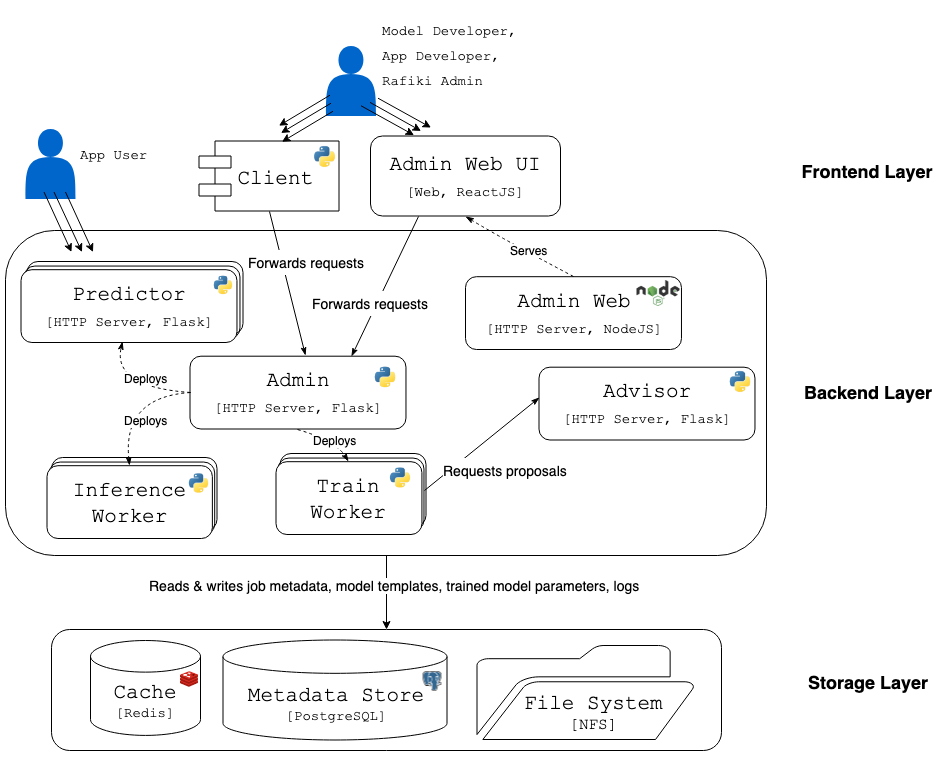
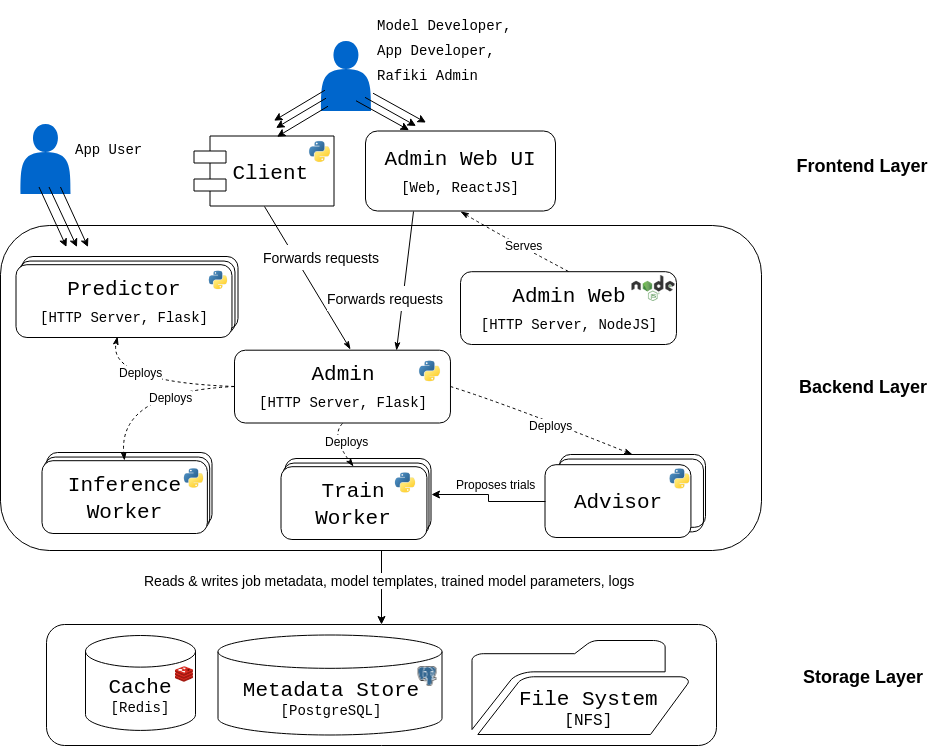
Update docs on architecture

diff --git a/docs/src/dev/architecture.rst b/docs/src/dev/architecture.rst
@@ -3,7 +3,7 @@
 Rafiki's Architecture
 ====================================================================
 
-Rafiki’s system architecture consists of 3 static components, 2 central databases, 3 types of dynamic components, and 1 client-side SDK, 
+Rafiki’s system architecture consists of 3 static components, 2 central databases, 4 types of dynamic components, and 1 client-side SDK, 
 which can be illustrated with a 3-layer architecture diagram.
 
 .. figure:: ../images/container-diagram.png
@@ -22,8 +22,6 @@ Rafiki’s static stack consists of the following:
 
     *Rafiki Metadata Store* (*PostgreSQL*) is Rafiki’s centralized, persistent database for user metadata, job metadata, worker metadata and model templates. 
 
-    *Rafiki Advisor* (*Python/Flask*) is Rafiki’s advisor as described in the earlier sections. It is a single-threaded HTTP server. It accepts new advisory sessions from multiple Rafiki Train Workers, generates proposals of Knobs for them, and receives feedback for completed Trials in a Train Job. 
-
     *Rafiki Cache* (*Redis*) is Rafiki’s temporary in-memory store for the implementation of fast asynchronous cross-worker communication, in a way that decouples senders from receivers. It synchronizes the back-and-forth of queries & predictions between multiple Rafiki Inference Workers and a single Rafiki Predictor for an Inference Job.
 
     *Rafiki Web Admin* (*NodeJS/ExpressJS*) is a HTTP server that serves Rafiki’s web front-end to users, allowing Application Developers to survey their jobs on a friendly web GUI. 
@@ -40,8 +38,10 @@ When a worker is deployed, it is configured with the identifier for an associate
 
 The types of workers are as follows:
 
-    *Rafiki Train Workers* (*Python*) train models for Train Jobs by conducting Trials. In a single Train Job, there could be multiple Train Workers concurrently training models.
-    
+    *Rafiki Advisor Workers* (*Python*) proposes knobs & training configuration for Train Workers. For each model, there is a single Advisor Worker centrally orchestrating tuning of the model together with multiple Train Workers. 
+
+    *Rafiki Train Workers* (*Python*) train models for Train Jobs by conducting Trials. 
+
     *Rafiki Predictors* (*Python/Flask*) are multi-threaded HTTP servers that receive queries from Application Users and respond with predictions as part of an Inference Job. It does this through  producer-consumer relationships with multiple Rafiki Inference Workers. If necessary, it performs model ensembling on predictions received from different workers.
     
     *Rafiki Inference Workers* (*Python*) serve models for Inference Jobs. In a single Inference Job, there could be multiple Inference Workers concurrently making predictions for a single batch of queries.
